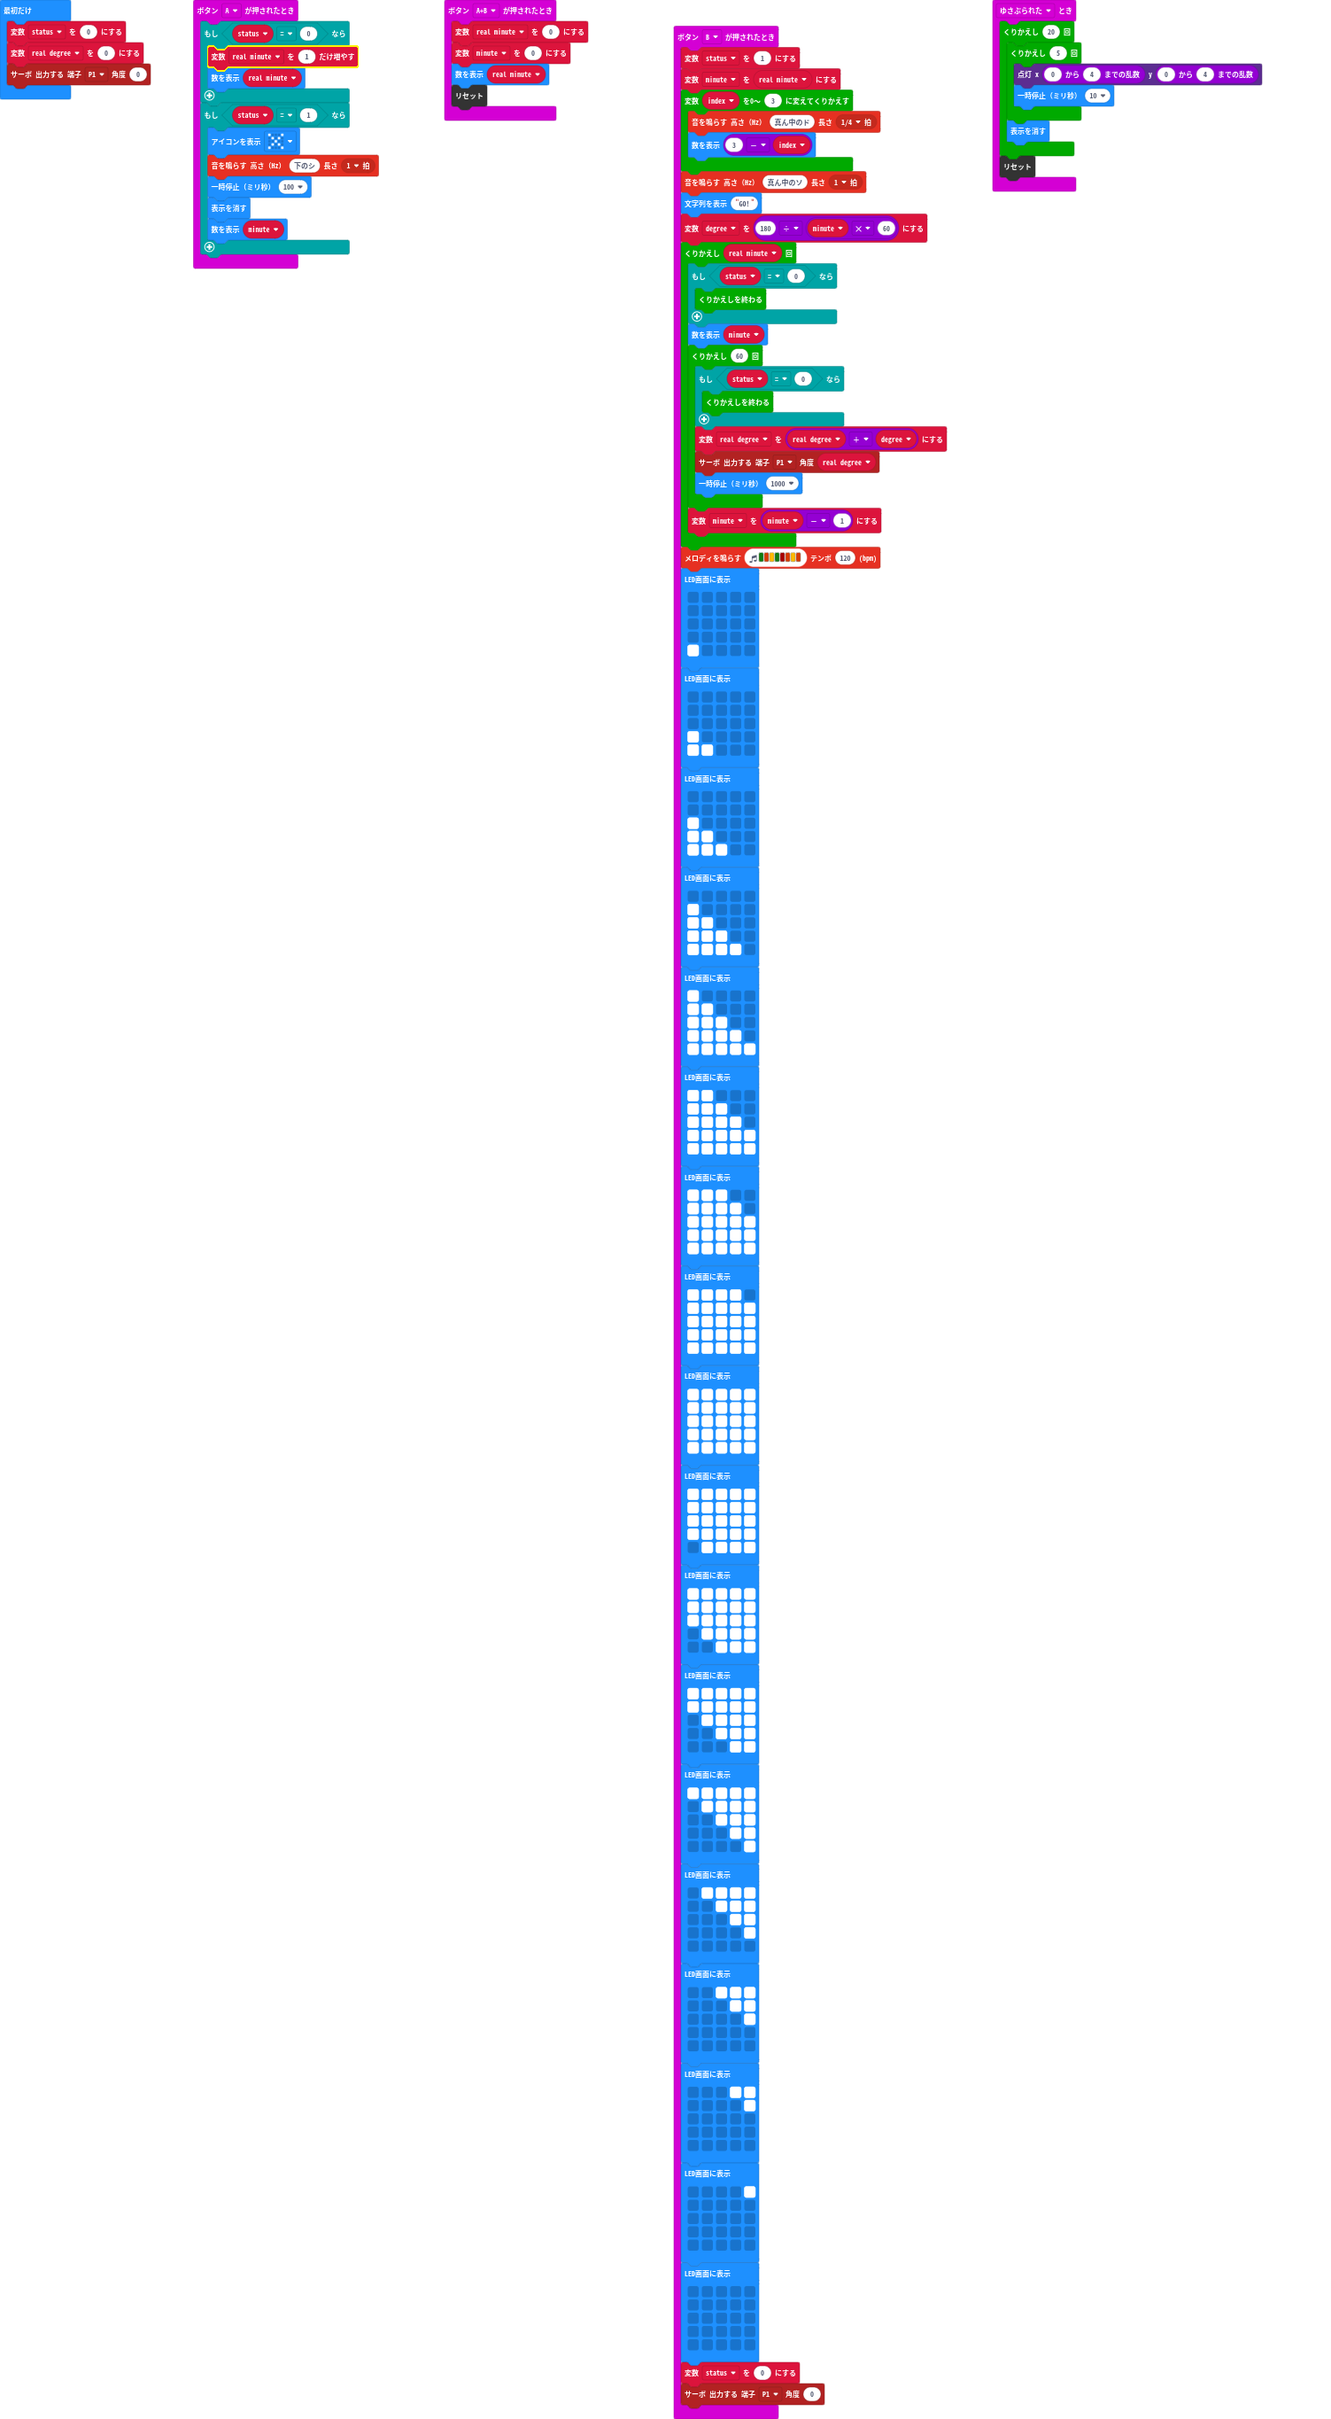
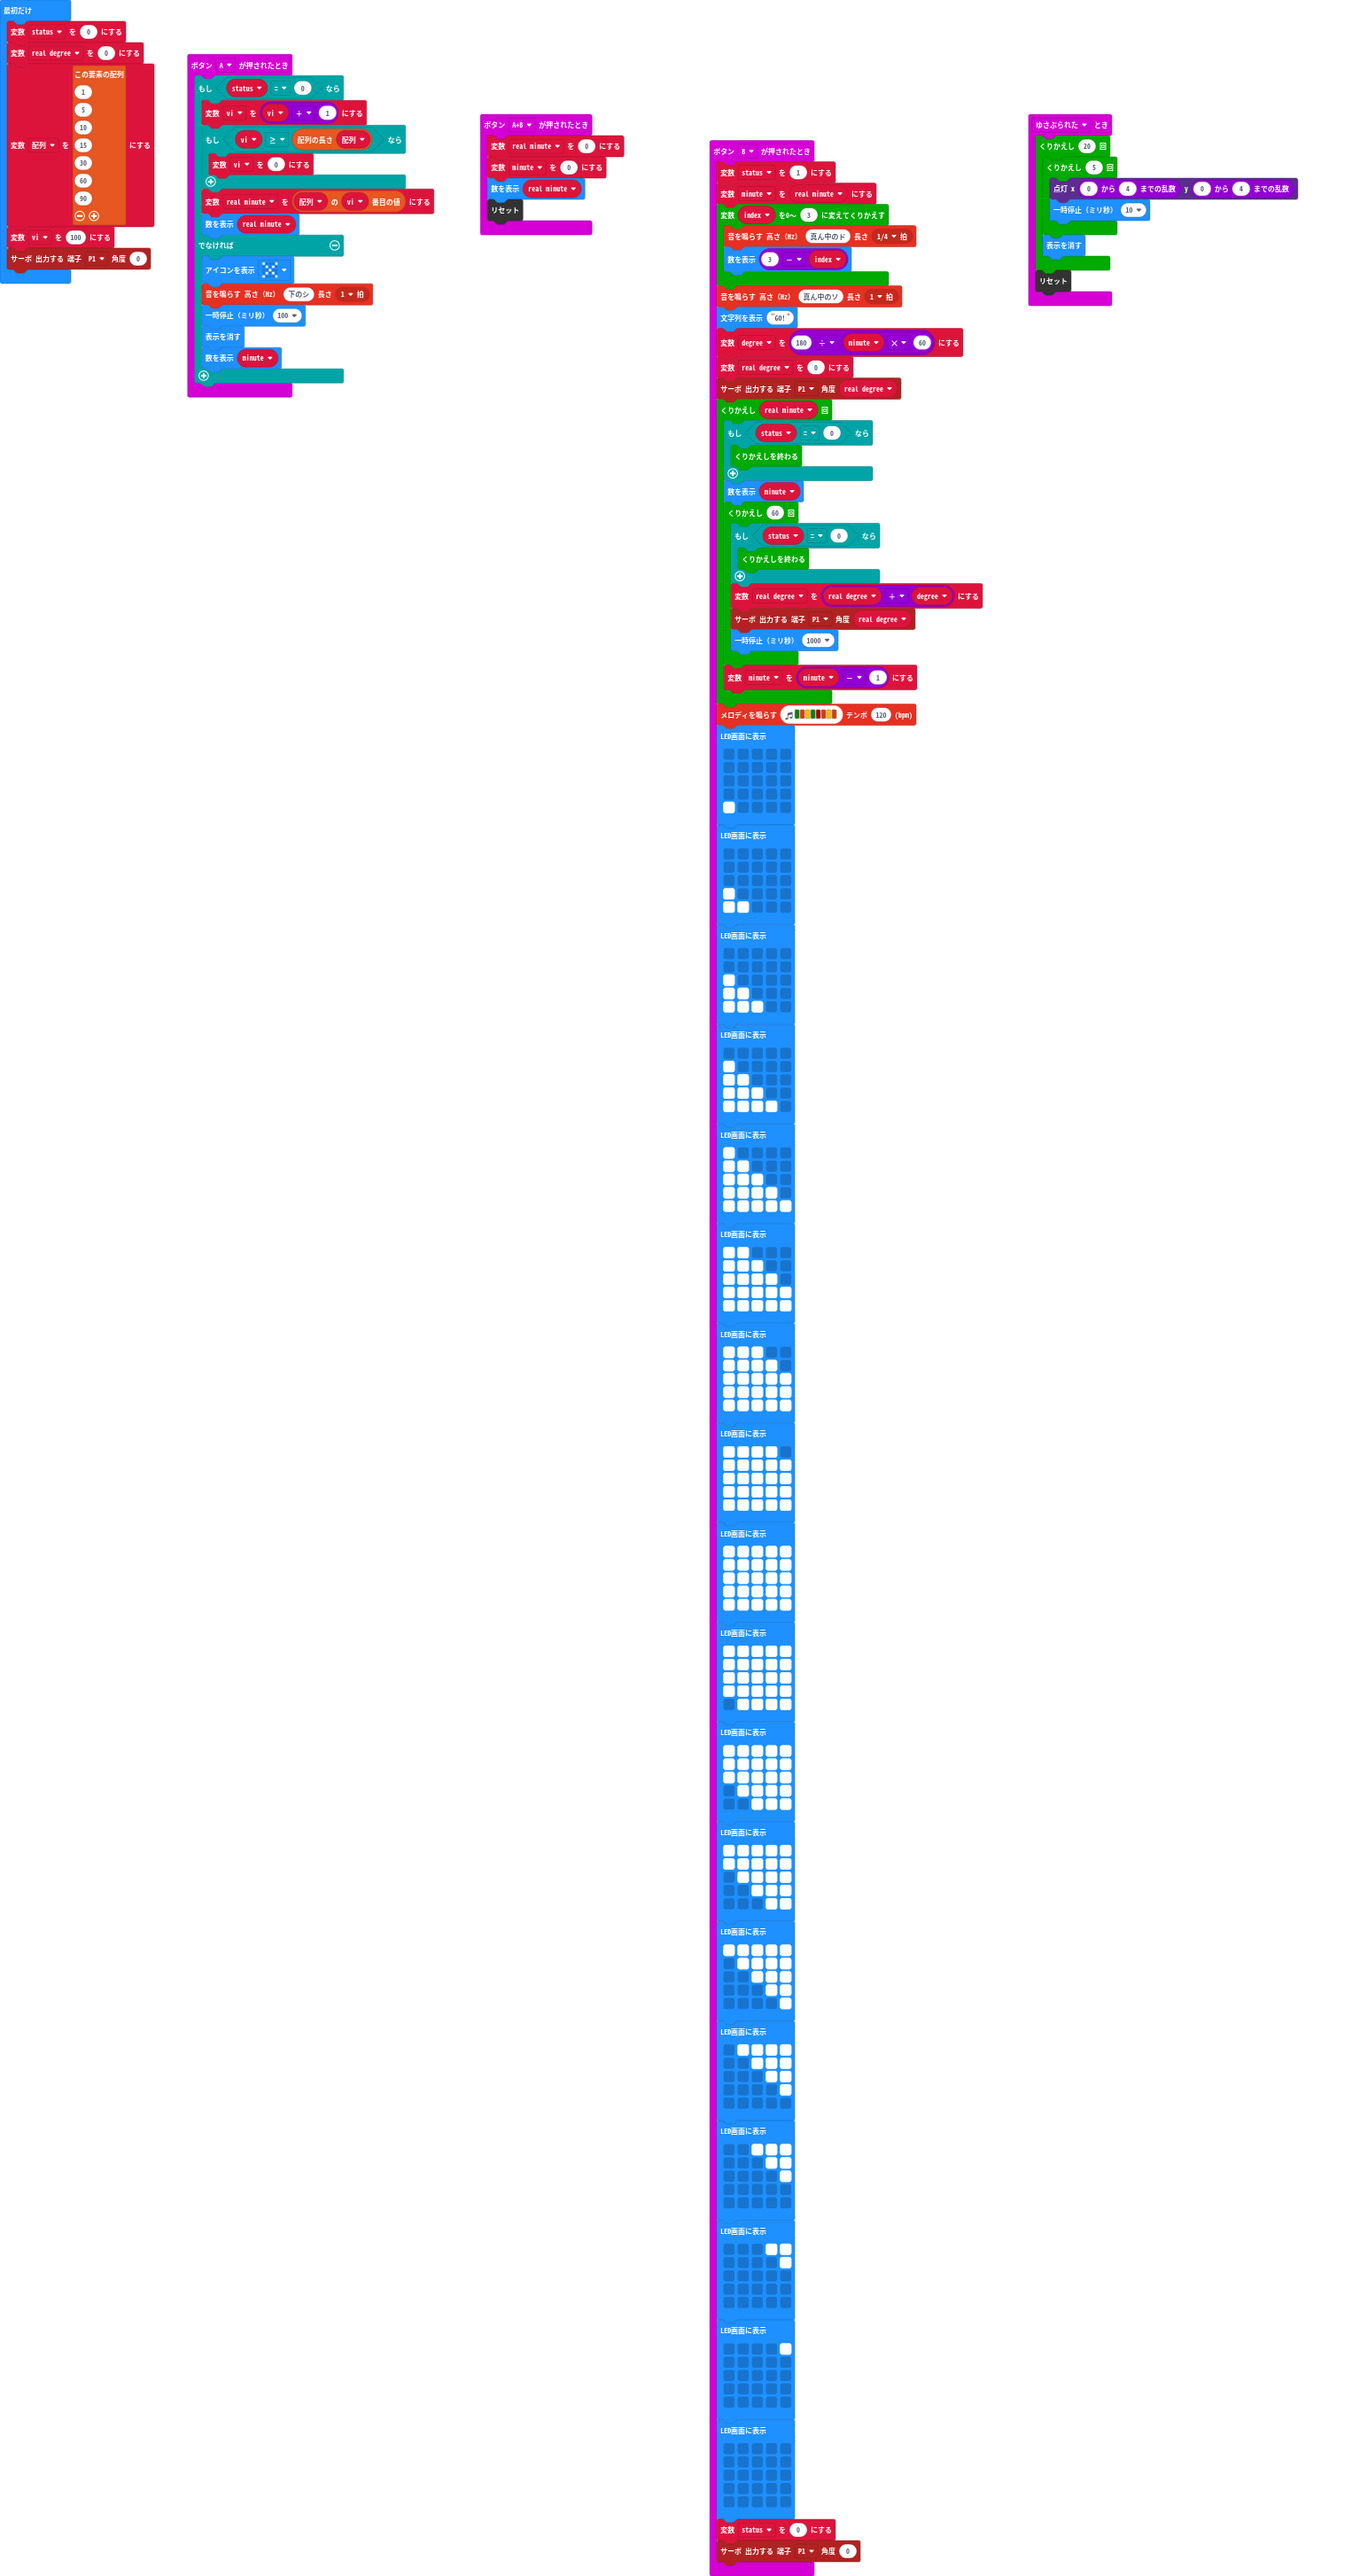
更新 main.blocks, main.ts

Changed region(s): [[0.4897, 0.0, 0.7345, 1.0], [0.0, 0.0, 0.4591, 0.1557], [0.7345, 0.0, 0.9488, 0.1245]]

diff --git a/main.ts b/main.ts
@@ -1,9 +1,12 @@
 input.onButtonPressed(Button.A, function () {
     if (status == 0) {
-        real_minute += 1
+        vi = vi + 1
+        if (vi >= 配列.length) {
+            vi = 0
+        }
+        real_minute = 配列[vi]
         basic.showNumber(real_minute)
-    }
-    if (status == 1) {
+    } else {
         basic.showIcon(IconNames.No)
         music.playTone(247, music.beat(BeatFraction.Whole))
         basic.pause(100)
@@ -37,6 +40,8 @@ input.onButtonPressed(Button.B, function () {
     music.playTone(392, music.beat(BeatFraction.Whole))
     basic.showString("GO!")
     degree = 180 / (minute * 60)
+    real_degree = 0
+    pins.servoWritePin(AnalogPin.P1, real_degree)
     for (let index = 0; index < real_minute; index++) {
         if (status == 0) {
             break;
@@ -185,8 +190,20 @@ input.onButtonPressed(Button.B, function () {
 let degree = 0
 let minute = 0
 let real_minute = 0
+let vi = 0
+let 配列: number[] = []
 let real_degree = 0
 let status = 0
 status = 0
 real_degree = 0
+配列 = [
+1,
+5,
+10,
+15,
+30,
+60,
+90
+]
+vi = 100
 pins.servoWritePin(AnalogPin.P1, 0)
